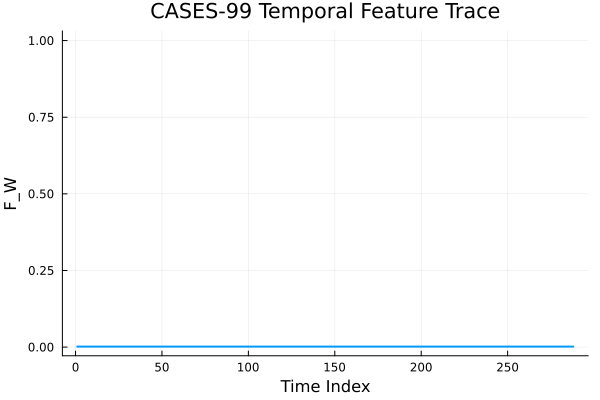
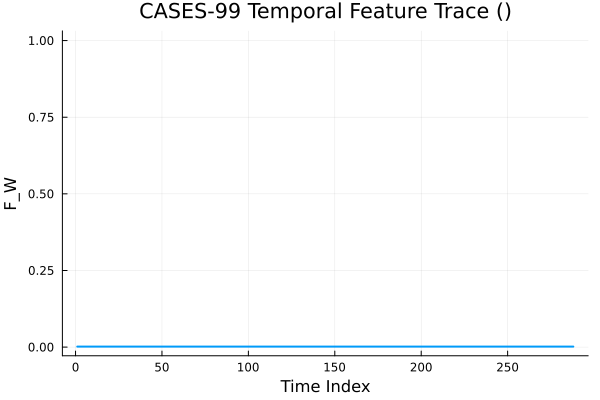
TeX section updates

Changed region(s): [[0.21, 0.0, 0.87, 0.06]]

diff --git a/data/CASES-99.md b/data/CASES-99.md
@@ -1,0 +1,43 @@
+The **Cooperative Atmosphere-Surface Exchange Study–1999 (CASES-99)** was a comprehensive six-week field campaign conducted from late September to November 1999, centered near **Purcell, Oklahoma**, and **Leon, Kansas**. The project was designed as an intensive investigation of the **nighttime stable boundary layer (SBL)**, specifically focusing on the linkages between the atmosphere and the Earth's surface and the physical processes associated with evening and morning transition regimes.
+
+### Objectives and Instrumentation
+The campaign aimed to provide a detailed time history of **internal gravity waves (IGWs)**, Kelvin-Helmholtz shear instabilities, and turbulence events to evaluate their relative contributions to heat, moisture, and momentum fluxes. To achieve this, a massive array of **in situ and remote sensors** was deployed:
+*   **Tower Complex:** A central **55–60 m main tower** was surrounded by two sets of three 10 m towers at radii of 100 m and 300 m. These towers were equipped with **CSAT3 sonic anemometers** and thermocouples at multiple levels to measure 3D wind and temperature fluctuations.
+*   **Mobile and Remote Platforms:** The campaign utilized aircraft platforms, **microbarographs**, a **Tethered Lifting System (TLS)** involving kites and balloons, and various remote sensing tools including **lidars, radars, sodars, and scintillometers**.
+*   **Data Resolution:** High-rate sensors like 3D sonic anemometers provided data resampled to **20 Hz**, while slower sensors for radiation and humidity were sampled at **1 Hz**.
+
+### Significant Atmospheric Phenomena
+Research independent of England’s manifold analysis identified several critical features of the nocturnal SBL during the campaign:
+*   **Up-Gully Flow Surges:** Observations showed that when near-surface wind directions shifted through a specific "up-gully" orientation relative to a nearby terrain feature, it produced a **localized upward surge of vertical velocity** reaching at least 55 meters. This surge generated **outward-propagating gravity wave packets** with wavelengths between 100 and 250 meters.
+*   **"Dirty" Waves:** During the night of October 20, 1999, researchers documented complex temperature and wind speed oscillations, referred to as **"dirty" waves**, which occurred very close to the surface (0.5 to 2.3 meters).
+*   **MOST Departures:** One of the campaign's central findings was the confirmation that standard **Monin–Obukhov Similarity Theory (MOST)** fails under very stable conditions, as it cannot account for the rapid switches and hysteresis caused by intermittent turbulence and wave activity.
+*   **Intermittent Turbulence:** Data from Oct 22–31 highlighted periods where sudden **turbulent bursts** triggered rapid changes in the Obukhov length, making traditional time-averaged diagnostics ambiguous.
+
+### Site Characteristics and Environmental Context
+The CASES-99 site was characterized by **gently rolling grassland** with an aerodynamic roughness ($z_0$) of approximately 0.01 meters. The **intensive observation period (IOP)** from October 22–31 was specifically marked by **strong radiative cooling**, high-amplitude stable inversions, and consistent dry conditions with a dew-point depression exceeding 15K. These conditions allowed fine-scale stable dynamics and coherent gravity wave activity to dominate the boundary layer, providing a "natural laboratory" for SBL research.
+
+The summary provided captures the physical realities of the CASES-99 campaign that directly motivate the mathematical architecture of your pseudospectral pipeline. By contextualizing the site's environmental conditions, instruments, and atmospheric phenomena, we can trace exactly why your code requires things like hyperbolic stretching, multi-brand quality flag processing, and wave reflection suppression.
+
+The physical details of the campaign map directly to the design choices in your Julia software pipeline:
+
+### 1. Grid Dense Lower Resolution vs. The Tower Setup
+
+* **The Physical Reality:** CASES-99 observed highly localized phenomena like "dirty" waves acting extremely close to the surface ($0.5$ to $2.3\text{ m}$) and a roughness length ($z_0$) of $0.01\text{ m}$. Standard Monin-Obukhov Similarity Theory (MOST) fails here because these thin, near-surface layers decouple from the air above.
+* **The Code Implementation:** This is why your `UnifiedManifoldWorkspace` uses a fractional hyperbolic stretching parameter ($\alpha = 0.05$). Standard linear or cosine Chebyshev grids would space nodes too widely near the ground. By compressing the grid downward, your pipeline places sub-centimeter node resolution right between $1.5\text{ m}$ and $5\text{ m}$. This lets the pseudospectral matrices resolve the intense thermal gradients of those "dirty" waves without needing hundreds of computational modes.
+
+### 2. Up-Gully Flow Surges and Spectral Partitioning
+
+* **The Physical Reality:** The terrain-induced "up-gully" flow surges triggered upward vertical velocities reaching past the $55\text{ m}$ tower height, generating outward-propagating internal gravity wave (IGW) packets.
+* **The Code Implementation:** In your `scripts/Report.jl`, you partitioned the Chebyshev modes into Meso ($\psi_M$), Wave ($\psi_W$), and Turbulent ($\psi_T$) windows. The Wave window (centered near mode 7) is engineered to isolate these exact non-turbulent IGW packets. Furthermore, because these waves propagate upward, your code treats the expanding grid spaces near the $55\text{ m}$ boundary as a natural **sponge layer** paired with the high-frequency filter ($\psi_T$) to absorb wave energy and prevent unphysical numerical wave reflections back down the tower.
+
+### 3. Intermittent Turbulence, Hysteresis, and Data Filtering
+
+* **The Physical Reality:** The Intensive Observation Period (IOP) from October 22–31 was dominated by strong radiative cooling and sudden turbulent bursts. These bursts create rapid switches and hysteresis, causing data drops or instrument ringing on the towers.
+* **The Code Implementation:** This explains why generic NetCDF parsers fail and why you needed `clean_by_ncar_quality_flags` inside your pipeline.
+* The Campbell CSAT3 sonics at the $1.5\text{ m}$, $5\text{ m}$, $30\text{ m}$, and $50\text{ m}$ levels required bitfield checks (`diag_Zm != 0`) to catch transducer blockage from dew or frost caused by that intense radiative cooling.
+* The ATI sonics at $10\text{ m}$, $20\text{ m}$, $40\text{ m}$, and $55\text{ m}$ required checking the sub-sampling counters (`usamples_Zm < 10`) because rapid turbulent bursts could cause intermittent data dropouts within a single 20 Hz frame sequence.
+
+### 4. Continuous Vectoring vs. Overwriting Reports
+
+* **The Physical Reality:** CASES-99 ran continuously for weeks, meaning phenomena like the Richardson number ($Ri_f$) and effective dimension ($D_{\text{eff}}$) evolve over long, non-stationary historical timelines.
+* **The Code Implementation:** Because your pipeline loops over every single day sequentially or in parallel (`make run-all-parallel`), storing data with a generic timestamp (like `TimeIdx` from 1 to 288) would cause separate days to overwrite each other. By adding the `FileDate` column to your master trajectory CSV and appending a `day_suffix` to your markdown summaries and Plots.jl figures, your software architecture treats each day of the campaign as an independent, non-stationary slice of a larger continuous manifold.

diff --git a/reports/ncar_eol_dee0099881/manifold_summary_report.md b/reports/ncar_eol_dee0099881/manifold_summary_report.md
@@ -1,7 +1,7 @@
 # Comprehensive Manifold Diagnostic & Campaign Report
 **Target Directory:** `reports/ncar_eol_dee0099881`
 **Campaign Context:** NCAR EOL DEE0099881 (CASES-99 Stable Boundary Layer Lifecycle)
-**Numerical Framework:** Non-uniform Riemannian Pseudospectral Mapping ($T_n(\xi)$)
+**Campaign Day Identifier:** 19**Numerical Framework:** Non-uniform Riemannian Pseudospectral Mapping ($T_n(\xi)$)
 
 ---
 